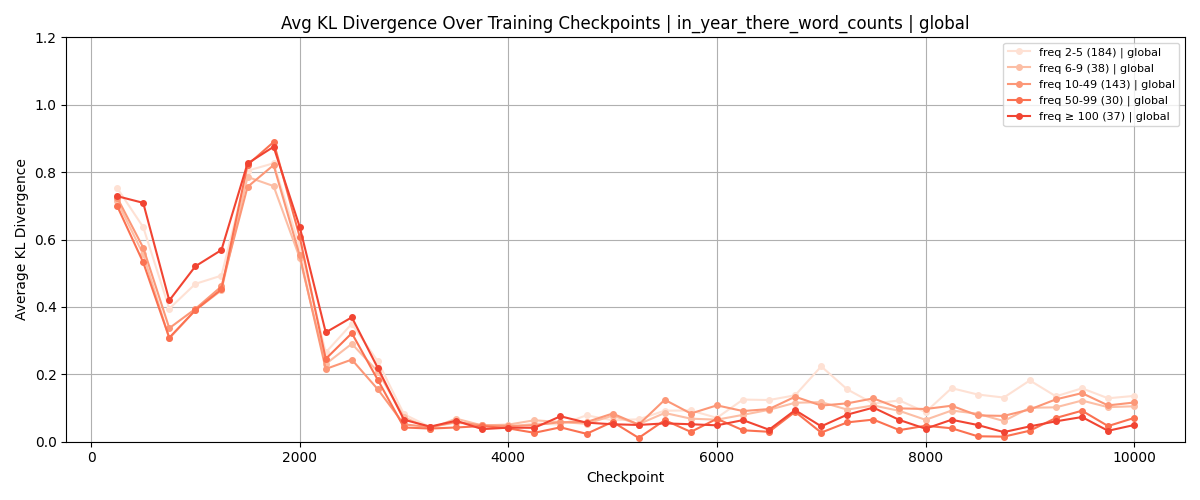
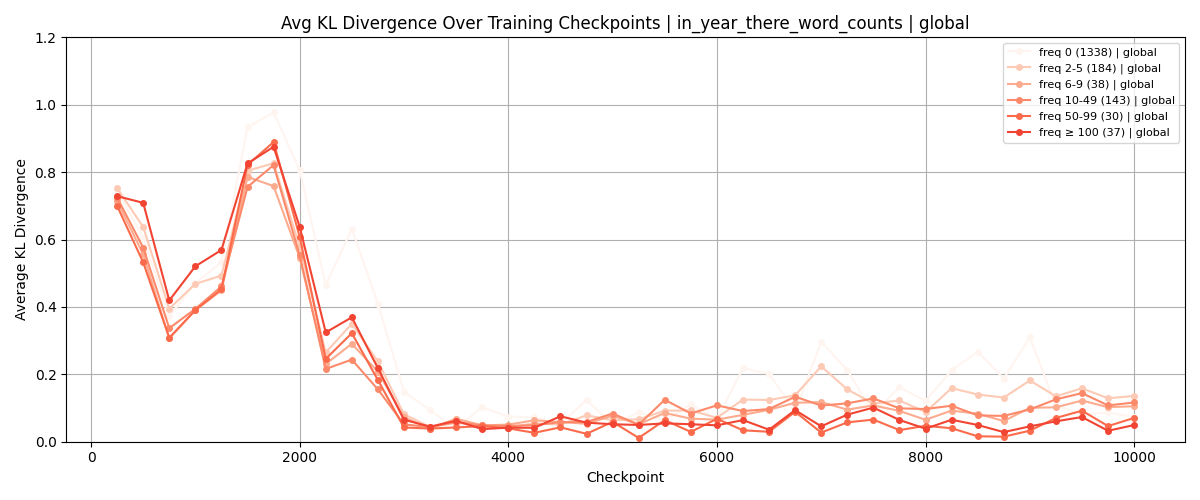
checkpoint code plots

diff --git a/kl_divergence_checkpoints.py b/kl_divergence_checkpoints.py
@@ -5,7 +5,6 @@ from scipy.stats import entropy
 import matplotlib.pyplot as plt
 import matplotlib.cm as cm
 
-
 TRAINING_DATA_FILE = "../olmo_training_data/1000-3000__was.were.is.are.will__allenai_OLMo-2-0425-1B/aggregated/steps0-10000/analytics/1000-3000__was.were.is.are.will__aggregated_results_steps0-10000.json" 
 CHECKPOINT_DIR = "../olmo_predictions/output_checkpoints"
 
@@ -127,52 +126,32 @@ class KLAnalyzer:
         bin_kl = {label: [] for label in bin_labels}
         bin_counts = {label: 0 for label in bin_labels}
 
+        # Include a fixed zero-count bucket for global prior only
+        if prior_method == "global":
+            zero_label = "freq 0"
+            bin_kl[zero_label] = []
+            bin_counts[zero_label] = 0
+            bin_labels = [zero_label] + bin_labels  # prepend to maintain plotting order
+
         for y in model.keys():
             if y not in train:
                 continue
             total_count = sum(self.training_data[self.data_source].get(y, {}).get(k,0) for k in ["was","were","is","are","will"])
-            for (low, high), label in zip(bin_edges, bin_labels):
+            # assign KL to zero bucket if count = 0 and global
+            if prior_method == "global" and total_count == 0:
+                kl_val = self.kl_divergence_from_dicts(train[y], model[y])
+                bin_kl[zero_label].append(kl_val)
+                bin_counts[zero_label] += 1
+                continue
+            # assign KL to regular bins
+            for (low, high), label in zip(bin_edges, bin_labels[1:] if prior_method=="global" else bin_labels):
                 if low <= total_count < high:
-                    bin_kl[label].append(self.kl_divergence_from_dicts(train[y], model[y]))
+                    kl_val = self.kl_divergence_from_dicts(train[y], model[y])
+                    bin_kl[label].append(kl_val)
                     bin_counts[label] += 1
                     break
 
         return {label: (np.mean(vals) if vals else None, bin_counts[label]) for label, vals in bin_kl.items()}
-
-    def plot_avg_kl_by_bins(self, checkpoints, cutoffs=[4,10], prior_method="per_year"):
-        plt.figure(figsize=(12,5))
-        bin_edges = self._bin_edges(cutoffs)
-        bin_labels = [self._bin_label(low, high, cutoffs) for low, high in bin_edges]
-        bin_kl_over_ckpts = {label: [] for label in bin_labels}
-        bin_counts_per_label = {label: 0 for label in bin_labels}
-
-        for ckpt in checkpoints:
-            kl_by_bin = self.compute_avg_kl_by_bins(ckpt, cutoffs=cutoffs, prior_method=prior_method)
-            for label in bin_labels:
-                kl_val, count = kl_by_bin.get(label, (None, 0))
-                bin_kl_over_ckpts[label].append(kl_val)
-                bin_counts_per_label[label] = max(bin_counts_per_label[label], count)
-
-        # plot each bin
-        for label in bin_labels:
-            kl_vals = bin_kl_over_ckpts[label]
-            ckpts_filtered = [c for c, kl in zip(checkpoints, kl_vals) if kl is not None]
-            kl_filtered = [kl for kl in kl_vals if kl is not None]
-            label_with_count = f"{label} ({bin_counts_per_label[label]})" if bin_counts_per_label[label] > 0 else None
-            if label_with_count:
-                plt.plot(ckpts_filtered, kl_filtered, marker='o', label=label_with_count)
-
-        plt.xlabel("Checkpoint")
-        plt.ylabel("Average KL Divergence")
-        plt.title(f"Avg KL Divergence Trend | {self.data_source} | {prior_method}")
-        plt.ylim(0, 1.2)
-        plt.grid(True)
-        plt.legend(loc='upper right')
-        plt.tight_layout()
-        os.makedirs("checkpoints", exist_ok=True)
-        plt.savefig(f"checkpoints/avg_kl_by_bins_{cutoffs[0]}_{cutoffs[-1]}_{prior_method}.png")
-        plt.show()
-        plt.close()
 
 
     @staticmethod
@@ -194,82 +173,36 @@ class KLAnalyzer:
         else:
             return f"freq {low}-{high}"
 
-    def plot_avg_kl_by_bins_two_priors(self, checkpoints, cutoffs=[4,10]):
-        """
-        Plot KL by bins and prior method with lines and scatter points.
-        'per_year' bins in blue shades, 'global' bins in red shades.
-        """
-        import matplotlib.cm as cm
-
-        plt.figure(figsize=(12,5))
-        bin_edges = self._bin_edges(cutoffs)
-        bin_labels = [self._bin_label(low, high, cutoffs) for low, high in bin_edges]
-
-        prior_methods = ["per_year", "global"]
-        blue_colors = cm.Blues_r(np.linspace(1, 0.4, len(bin_labels)))  # darker = higher frequency
-        red_colors = cm.Reds_r(np.linspace(1, 0.4, len(bin_labels)))    # darker = higher frequency
-
-        colors = {
-            "per_year": blue_colors,
-            "global": red_colors
-        }
-
-        for prior_method in prior_methods:
-            bin_kl_over_ckpts = {label: [] for label in bin_labels}
-            bin_counts_per_label = {label: 0 for label in bin_labels}
-
-            # compute KL for all bins across checkpoints
-            for ckpt in checkpoints:
-                kl_by_bin = self.compute_avg_kl_by_bins(ckpt, cutoffs=cutoffs, prior_method=prior_method)
-                for label in bin_labels:
-                    kl_val, count = kl_by_bin.get(label, (None, 0))
-                    bin_kl_over_ckpts[label].append(kl_val)
-                    bin_counts_per_label[label] = max(bin_counts_per_label[label], count)
-
-            # plot bins with lines and scatter points
-            for label, color in zip(bin_labels, colors[prior_method]):
-                kl_vals = bin_kl_over_ckpts[label]
-                ckpts_filtered = [c for c, kl in zip(checkpoints, kl_vals) if kl is not None]
-                kl_filtered = [kl for kl in kl_vals if kl is not None]
-                if kl_filtered:
-                    label_with_count = f"{label} ({bin_counts_per_label[label]}) | {prior_method}"
-                    plt.plot(ckpts_filtered, kl_filtered, marker='o', markersize=4, label=label_with_count, color=color)  # lines + small markers
-
-        plt.xlabel("Checkpoint")
-        plt.ylabel("Average KL Divergence")
-        plt.title(f"Avg KL Divergence Over Training Checkpoints | {self.data_source}")
-        plt.ylim(0,1.2)
-        plt.grid(True)
-        plt.legend(loc='upper right', fontsize=8)
-        plt.tight_layout()
-        os.makedirs("checkpoints", exist_ok=True)
-        plt.savefig(f"checkpoints/avg_kl_by_bins_two_priors_lines_{cutoffs[0]}_{cutoffs[-1]}.png")
-        plt.show()
-        plt.close()
-
     def plot_avg_kl_by_bins_global_only(self, checkpoints, cutoffs=[4,10]):
         """
-        Plot KL by bins with lines and scatter points for global counts only.
+        Plot KL by bins with lines and scatter points for global counts only,
+        including a fixed freq 0 bin.
         """
         import matplotlib.cm as cm
-
         plt.figure(figsize=(12,5))
-        bin_edges = self._bin_edges(cutoffs)
-        bin_labels = [self._bin_label(low, high, cutoffs) for low, high in bin_edges]
-
-        bin_kl_over_ckpts = {label: [] for label in bin_labels}
-        bin_counts_per_label = {label: 0 for label in bin_labels}
 
         # compute KL for all bins across checkpoints
+        bin_kl_over_ckpts = {}
+        bin_counts_per_label = {}
         for ckpt in checkpoints:
             kl_by_bin = self.compute_avg_kl_by_bins(ckpt, cutoffs=cutoffs, prior_method="global")
-            for label in bin_labels:
-                kl_val, count = kl_by_bin.get(label, (None, 0))
+            # initialize keys on first checkpoint
+            if not bin_kl_over_ckpts:
+                for label in kl_by_bin:
+                    bin_kl_over_ckpts[label] = []
+                    bin_counts_per_label[label] = 0
+            for label, (kl_val, count) in kl_by_bin.items():
                 bin_kl_over_ckpts[label].append(kl_val)
                 bin_counts_per_label[label] = max(bin_counts_per_label[label], count)
 
+        # preserve the order including freq 0 first if exists
+        bin_labels = list(bin_kl_over_ckpts.keys())
+        if "freq 0" in bin_labels:
+            bin_labels.remove("freq 0")
+            bin_labels = ["freq 0"] + bin_labels
+
         # color map for global bins (reds)
-        colors = cm.Reds_r(np.linspace(1, 0.4, len(bin_labels)))  # invert intensity
+        colors = cm.Reds_r(np.linspace(1, 0.4, len(bin_labels)))  # dark = more frequent
 
         # plot bins with lines and scatter points
         for label, color in zip(bin_labels, colors):
@@ -298,22 +231,7 @@ if __name__ == "__main__":
     CHECKPOINTS = list(range(250, 10001, 250))
     PRIOR_METHOD =  "global"
 
-    # One plot at a time:
-    # COUNT_RANGES = [(1,10), (1,2), (2,3), (3, 4), (5, 1000)]
-    # for count_range in COUNT_RANGES:
-    #     avg_kl_values = [analyzer.compute_avg_kl_for_checkpoint(ckpt, count_range=count_range, prior_method=PRIOR_METHOD)
-    #                      for ckpt in CHECKPOINTS]
-    #     analyzer.plot_avg_kl_over_checkpoints(CHECKPOINTS, avg_kl_values, count_range=count_range)
-
-    # Many ranges at once, with cutoffs:
-    # PRIOR_METHOD =  "global"
-    # CUTOFFS = [2, 6, 10, 50, 100] # always pass cutoffs >1
-    # analyzer.plot_avg_kl_by_bins(CHECKPOINTS, cutoffs=CUTOFFS, prior_method=PRIOR_METHOD)
-   
-    # PRIOR_METHOD =  "per_year"
-    # analyzer.plot_avg_kl_by_bins(CHECKPOINTS, cutoffs=CUTOFFS, prior_method=PRIOR_METHOD)
-   
-
-    analyzer.plot_avg_kl_by_bins_two_priors(CHECKPOINTS, cutoffs=CUTOFFS)
+    CUTOFFS = [2, 6, 10, 50, 100] # always pass cutoffs >1.
+    # bug that i cant pass consecutive cutoffs i can fix later if needed
     analyzer.plot_avg_kl_by_bins_global_only(CHECKPOINTS, cutoffs=CUTOFFS)
 

diff --git a/kl_divergence_initial_aditi_fixed_no_data_years.py b/kl_divergence_initial_aditi_fixed_no_data_years.py
@@ -66,18 +66,7 @@ def plot_kl_divergence(years, kl_values, olmo_training_data, data_source="in_yea
     
     # Get total counts for each year
     relative_counts = olmo_training_data[data_source]
-    # total_counts = []
     
-    # for year in years:
-    #     counts_per_year = relative_counts[year]
-    #     total_count = (counts_per_year.get("was", 0) + 
-    #                     counts_per_year.get("were", 0) + 
-    #                     counts_per_year.get("is", 0) + 
-    #                     counts_per_year.get("are", 0) + 
-    #                     counts_per_year.get("will", 0))
-
-    #     total_counts.append(total_count)
-
     filtered_years = []
     filtered_kl = []
     filtered_counts = []
@@ -100,7 +89,6 @@ def plot_kl_divergence(years, kl_values, olmo_training_data, data_source="in_yea
     kl_values = filtered_kl
     total_counts = filtered_counts
 
-    
     # Create plot
     plt.figure(figsize=(20, 6))
     
